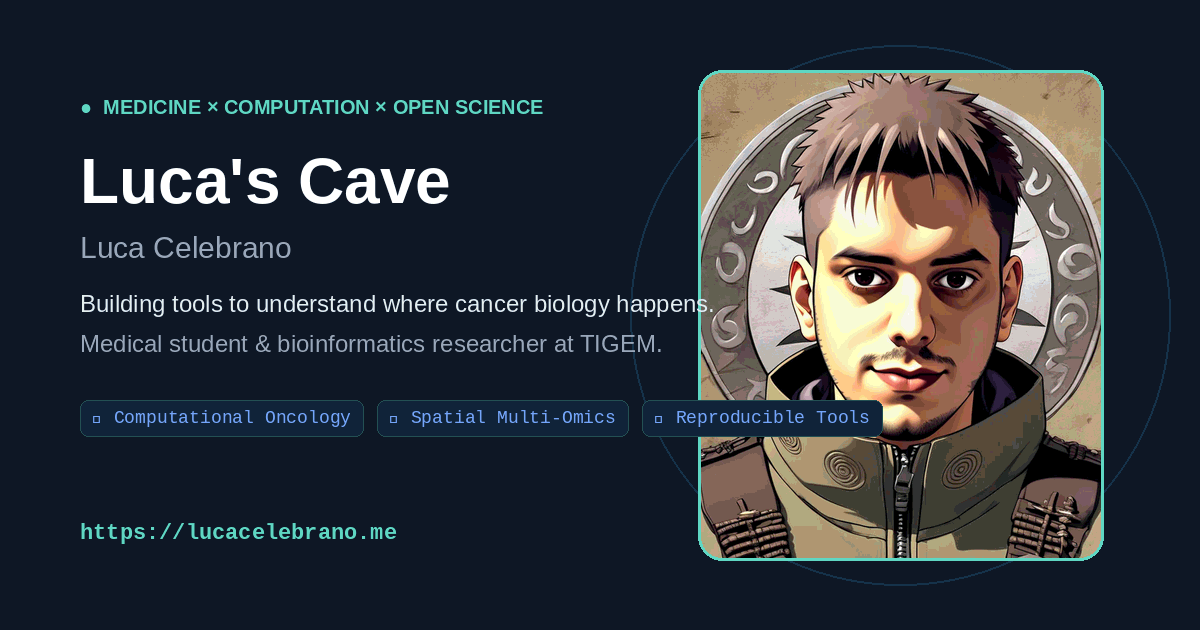
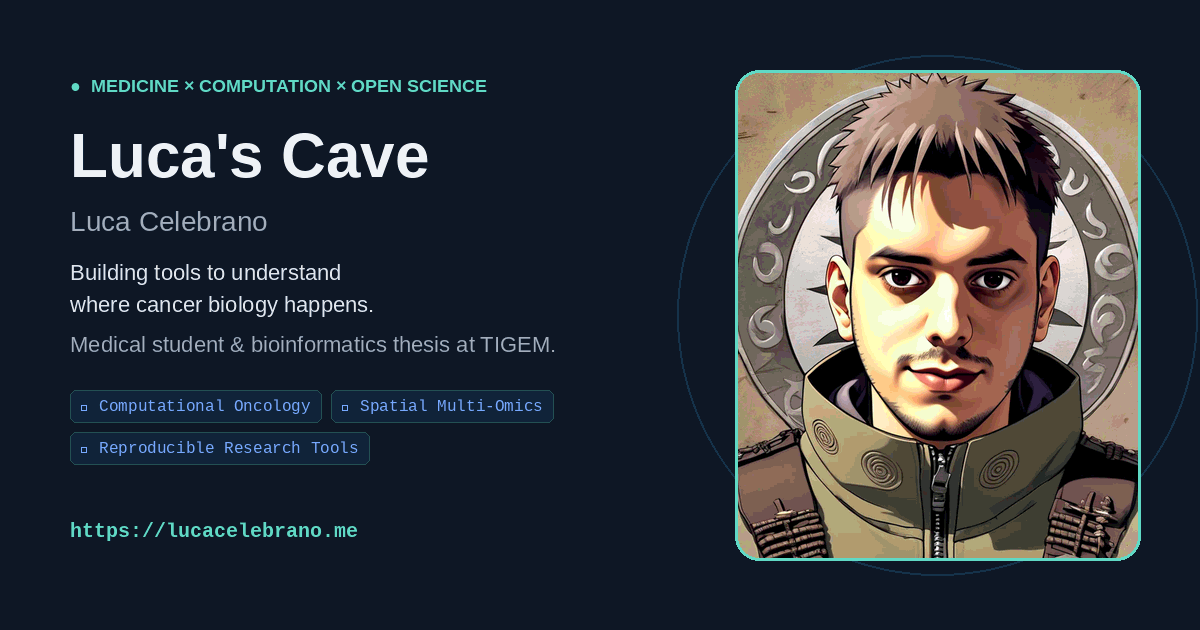
fix(og): fix badge overlapping ninja face with clean multi-row layout and 170px margin

diff --git a/index.html b/index.html
@@ -33,8 +33,8 @@
     <meta property="og:url" content="https://lucacelebrano.me/" />
     <meta property="og:title" content="Luca's Cave | Luca Celebrano" />
     <meta property="og:description" content="Luca's Cave: medicine, bioinformatics, computational oncology, open source research, and quotes from Middle-earth." />
-    <meta property="og:image" content="https://lucacelebrano.me/social-preview.jpg?v=4" />
-    <meta property="og:image:secure_url" content="https://lucacelebrano.me/social-preview.jpg?v=4" />
+    <meta property="og:image" content="https://lucacelebrano.me/social-preview.jpg?v=5" />
+    <meta property="og:image:secure_url" content="https://lucacelebrano.me/social-preview.jpg?v=5" />
     <meta property="og:image:type" content="image/jpeg" />
     <meta property="og:image:width" content="1200" />
     <meta property="og:image:height" content="630" />
@@ -44,7 +44,7 @@
     <meta name="twitter:card" content="summary_large_image" />
     <meta name="twitter:title" content="Luca's Cave | Luca Celebrano" />
     <meta name="twitter:description" content="Luca's Cave: bioinformatics, computational oncology, research, quotes, and side quests." />
-    <meta name="twitter:image" content="https://lucacelebrano.me/social-preview.jpg?v=4" />
+    <meta name="twitter:image" content="https://lucacelebrano.me/social-preview.jpg?v=5" />
     <meta name="twitter:image:alt" content="Luca's Cave — Luca Celebrano" />
 
     <title>Luca's Cave | Luca Celebrano</title>

diff --git a/sw.js b/sw.js
@@ -1,4 +1,4 @@
-const CACHE = "lukecele-research-v47";
+const CACHE = "lukecele-research-v48";
 const CORE = [
   "/",
   "/index.html",
@@ -9,6 +9,7 @@ const CORE = [
   "/manifest.webmanifest",
   "/icon-192.png",
   "/icon-512.png",
+  "/social-preview.jpg",
   "/social-preview.png",
   "/og-card-luca.png",
   "/profile-photo.png",
